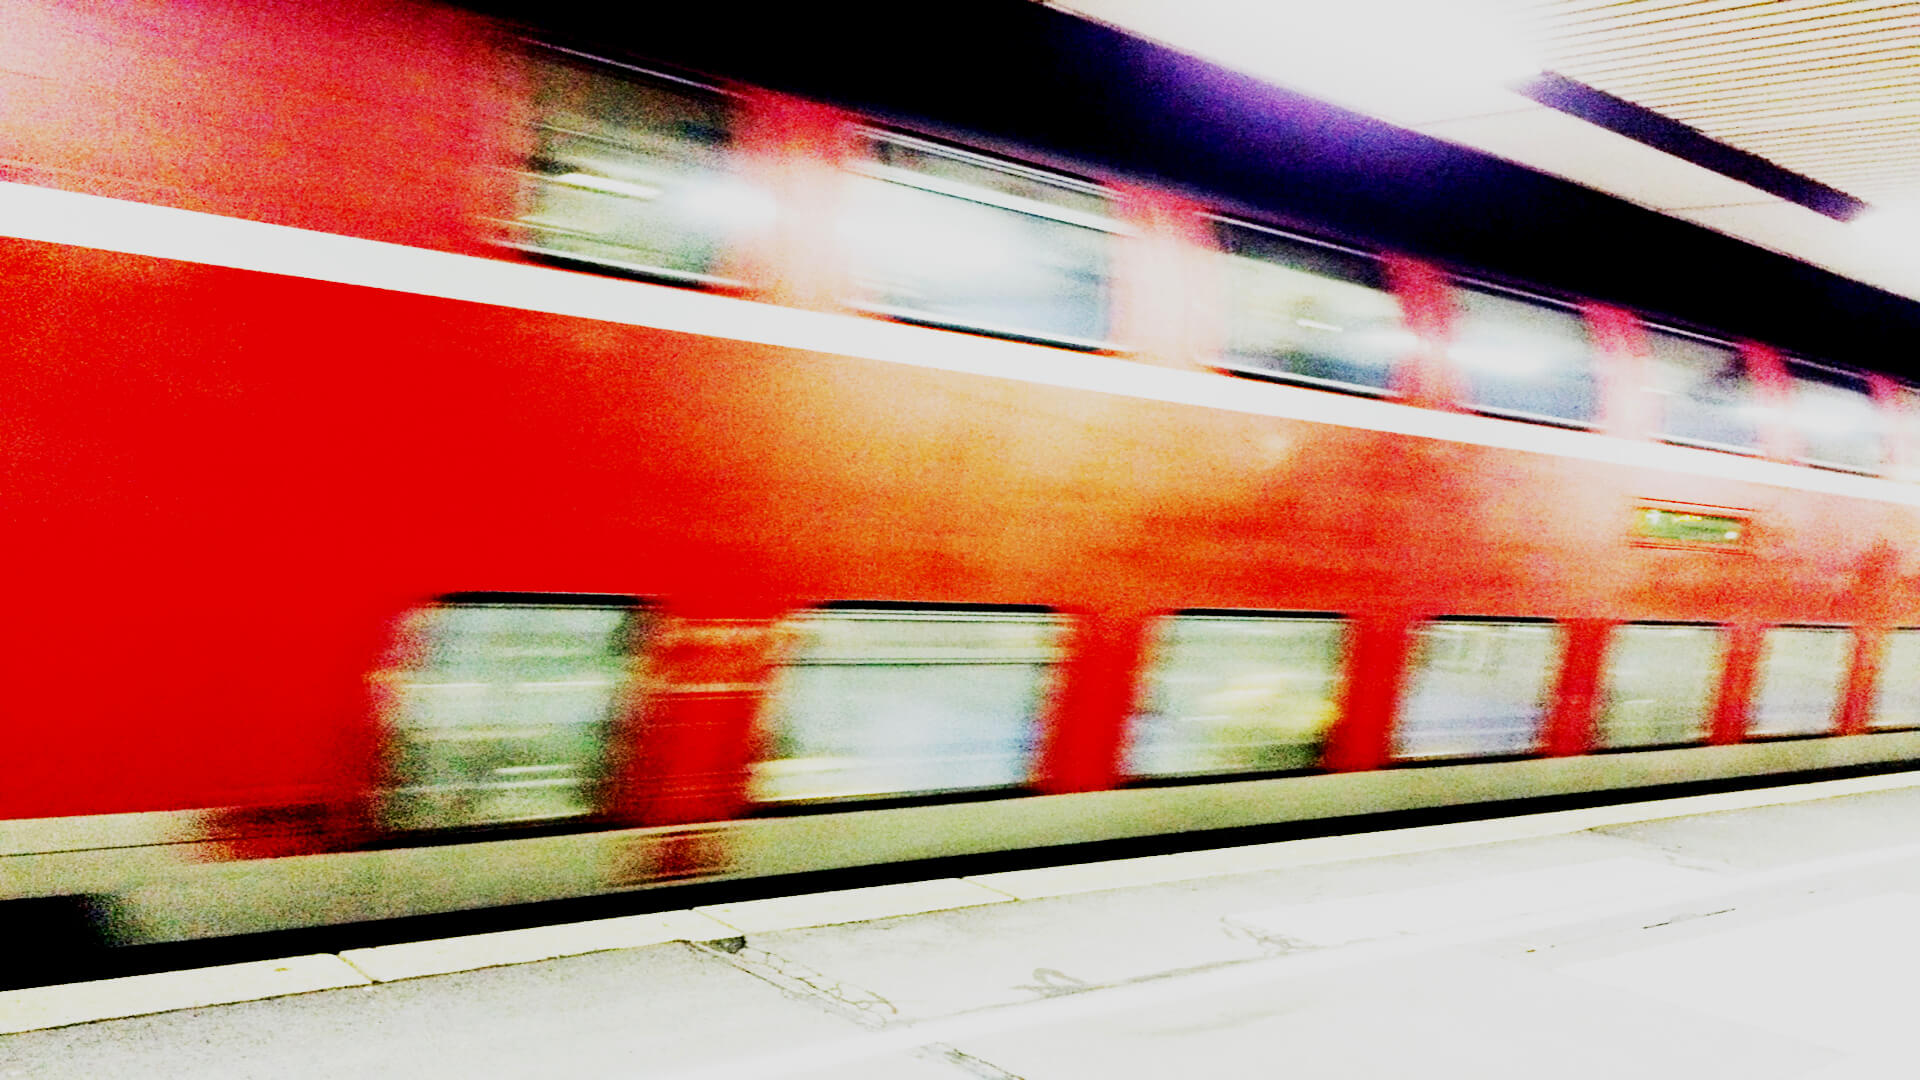
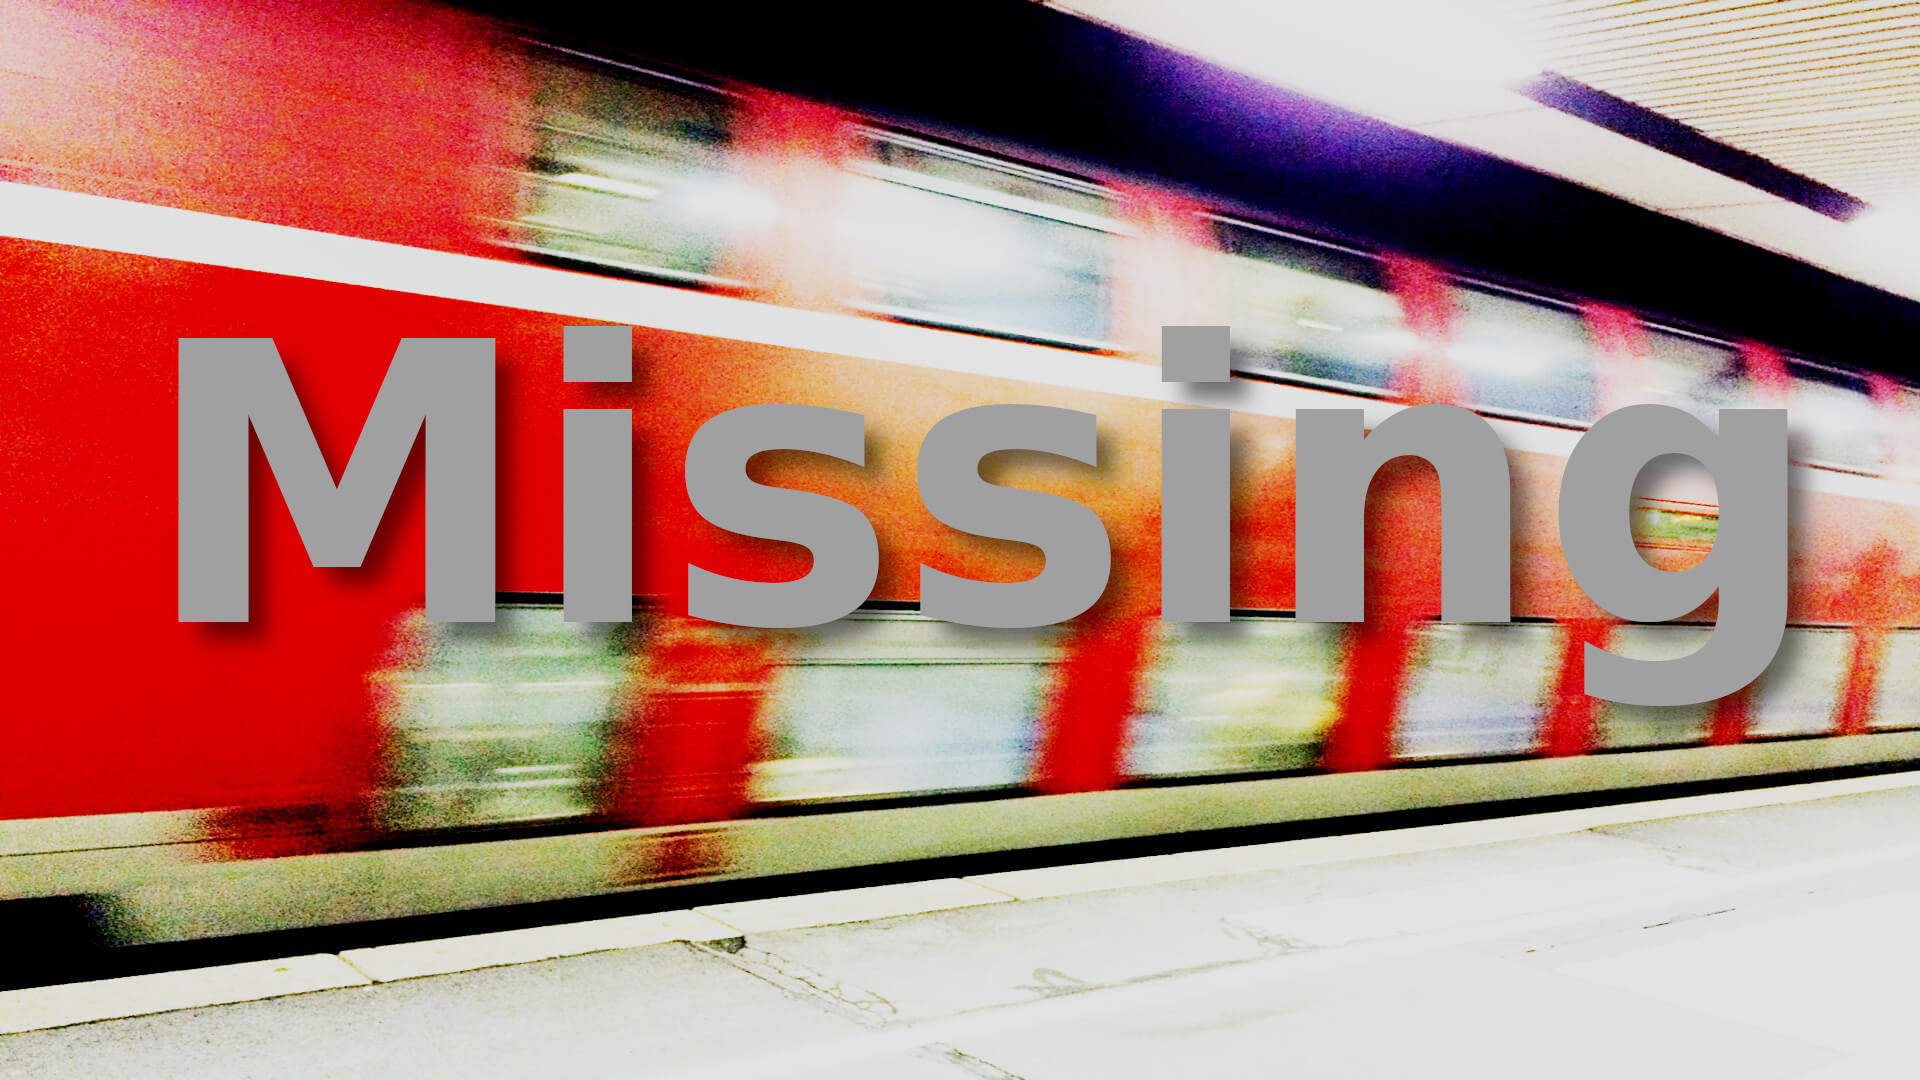
improve missing photo

Changed region(s): [[0.0938, 0.3056, 0.9688, 0.6722]]

diff --git a/js/map/station.js b/js/map/station.js
@@ -37,6 +37,12 @@ export let stationHtml = function (feature) {
        <img src="${photoURL}"/>
     </a>
     `;
+  } else {
+    image = `
+    <a href="${detailLink}">
+       <img src="images/default_klein.jpg"/>
+    </a>
+    `;
   }
 
   const title = `
